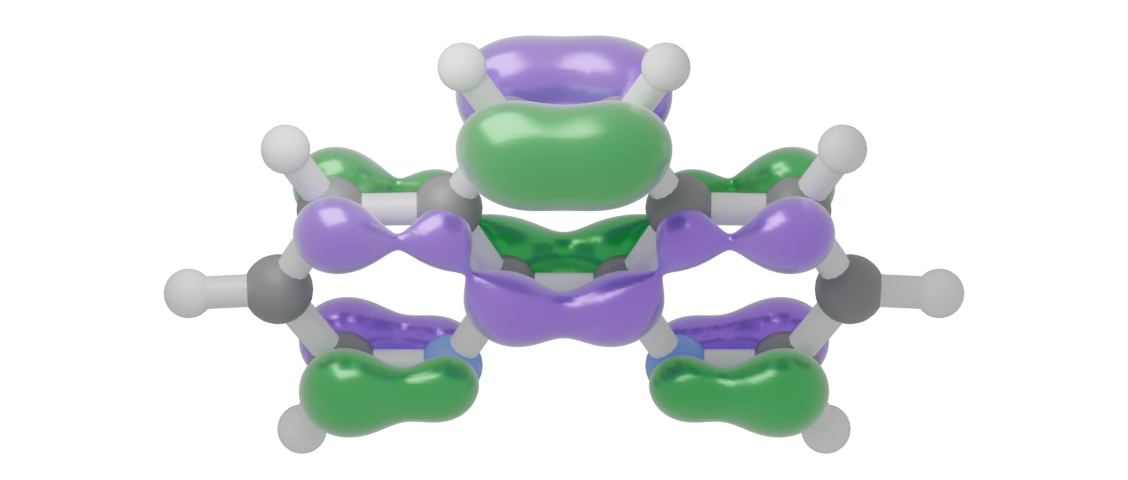
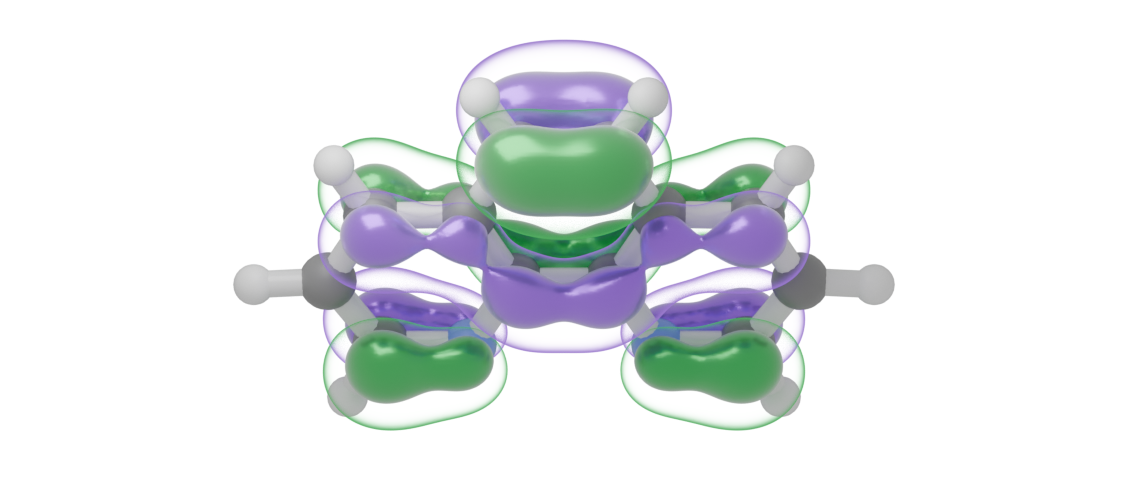
Layer phenanthroline orbital surfaces and hide the trajectory player bar

Changed region(s): [[0.1241, 0.0625, 0.8688, 0.9688]]

diff --git a/site/index.html b/site/index.html
@@ -63,17 +63,20 @@
         <p class="lead">Bring in XYZ or SDF structures, Molden orbitals, or Cube grids. Use JSON to combine fields or build a sequence.</p>
         <div class="pairs">
           <figure class="example">
-            <div class="sample-plate"><img src="img/phenanthroline-homo.webp" width="1128" height="480" loading="lazy" alt="Green and purple orbital lobes above and below phenanthroline’s three fused rings."></div>
-            <figcaption><h3>Explore a molecular orbital</h3><p>This is phenanthroline’s highest occupied molecular orbital. Purple and green show the two signs of the orbital across its fused rings.</p>
+            <div class="sample-plate"><img src="img/phenanthroline-homo.webp" width="1128" height="480" loading="lazy" alt="Translucent shells enclose solid green and purple lobes across phenanthroline’s three fused rings."></div>
+            <figcaption><h3>Explore a molecular orbital</h3><p>Purple and green show the two signs of phenanthroline’s highest occupied molecular orbital. The translucent shells trace a lower absolute isovalue.</p>
               <a href="https://github.com/smparker/molecular-blender/blob/master/examples/phenanthroline.molden">Try the bundled phenanthroline file</a>
             </figcaption>
           </figure>
           <figure class="example">
-            <video id="trajectory" class="sample-plate" width="752" height="320" controls muted loop playsinline
-                   preload="none" poster="img/trajectory-poster.webp" aria-label="XYZ trajectory showing one ring rotating relative to the other">
-              <source src="img/trajectory.mp4" type="video/mp4">
-              <a href="img/trajectory.mp4">Watch the trajectory</a>
-            </video>
+            <div class="trajectory-player">
+              <video id="trajectory" class="sample-plate" width="752" height="320" muted loop playsinline
+                     preload="none" poster="img/trajectory-poster.webp" aria-label="XYZ trajectory showing one ring rotating relative to the other">
+                <source src="img/trajectory.mp4" type="video/mp4">
+              </video>
+              <button type="button" id="trajectory-toggle" aria-controls="trajectory" aria-label="Play trajectory" hidden></button>
+              <noscript><a href="img/trajectory.mp4">Play the trajectory video</a></noscript>
+            </div>
             <figcaption><h3>Follow a trajectory</h3><p>Play a multi-frame XYZ file on Blender’s timeline. Here one ring rotates relative to the other. For a reaction, enable dynamic bonds to see bonds form and break.</p>
               <a href="https://github.com/smparker/molecular-blender/blob/master/examples/benzopentyl_twist.xyz">Open the XYZ trajectory</a>
             </figcaption>

diff --git a/site/site.js b/site/site.js
@@ -35,11 +35,25 @@ window.addEventListener('scroll', markSection, { passive: true });
 measureLayout();
 
 const trajectory = document.querySelector('#trajectory');
+const trajectoryToggle = document.querySelector('#trajectory-toggle');
 const reducedMotion = window.matchMedia('(prefers-reduced-motion: reduce)');
+
+function playTrajectory() {
+  // Browsers can require a tap before starting even muted video.
+  trajectory.play().catch(() => {});
+}
+
+trajectoryToggle.hidden = false;
+trajectoryToggle.addEventListener('click', () => {
+  if (trajectory.paused) playTrajectory();
+  else trajectory.pause();
+});
+trajectory.addEventListener('play', () => trajectoryToggle.setAttribute('aria-label', 'Pause trajectory'));
+trajectory.addEventListener('pause', () => trajectoryToggle.setAttribute('aria-label', 'Play trajectory'));
 
 function applyMotionPreference() {
   if (reducedMotion.matches) trajectory.pause();
-  else trajectory.play().catch(() => {}); // The native play button also works when autoplay is blocked.
+  else playTrajectory();
 }
 
 reducedMotion.addEventListener('change', applyMotionPreference);

diff --git a/site/site.css b/site/site.css
@@ -79,6 +79,8 @@ h3 { font-size: clamp(1.4rem, 1rem + 1.4vw, 2rem); font-weight: 650; letter-spac
 .sample-plate { display: flex; align-items: center; justify-content: center; aspect-ratio: 2.35; border-radius: .45rem; background: #f7fbfc; border: 1px solid #c4d9e0; }
 .sample-plate img { width: 100%; height: 100%; object-fit: contain; }
 video.sample-plate { display: block; width: 100%; height: auto; }
+.trajectory-player { position: relative; }
+#trajectory-toggle { position: absolute; inset: 0; width: 100%; height: 100%; appearance: none; padding: 0; border: 0; border-radius: .45rem; background: transparent; cursor: pointer; }
 .instructions h3 { margin-bottom: .85rem; }
 .instructions ol { padding-left: 1.55em; margin: 0; max-width: 55ch; }
 .instructions li { padding-left: .22em; margin-block: .55rem; }

diff --git a/test/check_website_browser.py b/test/check_website_browser.py
@@ -15,7 +15,7 @@ class QuietHandler(SimpleHTTPRequestHandler):
 
 
 def check_viewport(browser, url, width, height, scale, screenshots):
-    page = browser.new_page(viewport={'width': width, 'height': height})
+    page = browser.new_page(viewport={'width': width, 'height': height}, has_touch=width <= 390)
     errors = []
     page.on('pageerror', lambda error: errors.append(str(error)))
     page.on('requestfailed', lambda request: errors.append(request.url))
@@ -50,9 +50,18 @@ def check_viewport(browser, url, width, height, scale, screenshots):
             video = section.locator('video')
             video.scroll_into_view_if_needed()
             page.wait_for_function("document.querySelector('video').currentTime > 0.1")
-            assert video.evaluate('v => v.controls && v.loop && v.muted && v.playsInline && v.videoWidth > 0')
+            assert video.evaluate('v => !v.controls && v.loop && v.muted && v.playsInline && v.videoWidth > 0')
             video.evaluate('v => { v.currentTime = v.duration - 0.2; }')
             page.wait_for_function("document.querySelector('video').currentTime < 1")
+            toggle = section.get_by_role('button', name='Pause trajectory')
+            assert toggle.bounding_box() == video.bounding_box()
+            if width == 390:
+                toggle.tap()
+            else:
+                toggle.click()
+            expect(video).to_have_js_property('paused', True)
+            section.get_by_role('button', name='Play trajectory').click()
+            expect(video).to_have_js_property('paused', False)
         assert page.evaluate('document.documentElement.scrollWidth') == width, (width, scale, anchor)
     hero = page.locator('.intro-copy').bounding_box()
     figure = page.locator('.orbital').bounding_box()
@@ -88,7 +97,7 @@ def check_site(root, channel, screenshots):
                     video = page.locator('video')
                     video.scroll_into_view_if_needed()
                     assert video.evaluate('v => v.paused && v.currentTime === 0 && !!v.poster')
-                    video.focus()
+                    page.get_by_role('button', name='Play trajectory').focus()
                     page.keyboard.press('Space')
                     page.wait_for_function("document.querySelector('video').currentTime > 0.1")
                     page.keyboard.press('Space')
@@ -96,6 +105,7 @@ def check_site(root, channel, screenshots):
                     page.close()
                     page = browser.new_page(java_script_enabled=False)
                     page.goto(url)
+                    expect(page.get_by_role('link', name='Play the trajectory video')).to_have_attribute('href', 'img/trajectory.mp4')
                     page.get_by_role('link', name='Installation guide').click()
                     expect(page).to_have_url(url + '#usage')
                     with page.expect_download() as result:
